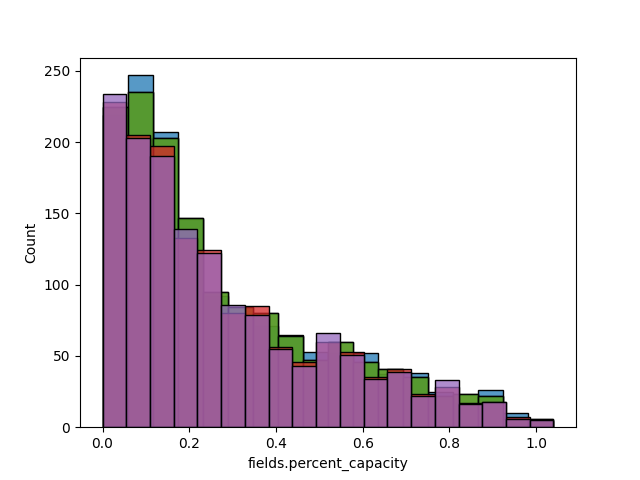
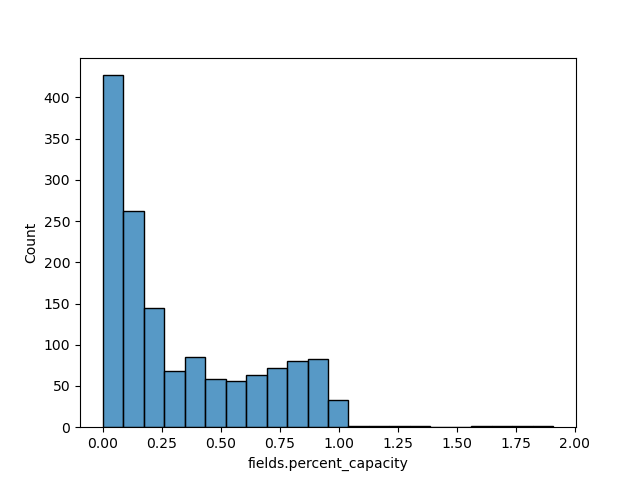
API payload parsed and saved to postgres tables.

diff --git a/app/modules/postgres_operations.py b/app/modules/postgres_operations.py
@@ -3,6 +3,8 @@ import pandas as pd
 from dotenv import load_dotenv
 import psycopg2
 from psycopg2.extras import Json, DictCursor
+
+from app.modules.api_operations import call_api
 from app.modules.test_data import test_data
 
 load_dotenv()
@@ -20,11 +22,8 @@ def connection_postgres():
 
 
 class VelibAPIResponse:
-    def __init__(self, json: dict):
-        self.nhits = json['nhits']
-        self.parameters = json['parameters']
-        self.records = json['records']
-        self.facet_groups = json['facet_groups']
+    def __init__(self, records: pd.DataFrame):
+        self.response_df = records
 
     def records_to_postgres(self):
 
@@ -32,11 +31,27 @@ class VelibAPIResponse:
         conn.autocommit = True
         cursor = conn.cursor(cursor_factory=DictCursor)
 
-        for record in self.records:
-            if record is not None:
-                cursor.execute('INSERT INTO test_table ("testCol") VALUES (%s)',
-                               [Json(record)]
-                               )
+        response_cols = ['fields.stationcode',
+                         'fields.ebike',
+                         'fields.mechanical',
+                         'fields.numbikesavailable',
+                         'fields.numdocksavailable',
+                         'fields.is_renting',
+                         'fields.is_installed',
+                         'fields.is_returning',
+                         'recordid',
+                         'fields.duedate',
+                         'record_timestamp',
+                         ]
+
+        postgres_cols = [col.split('.')[-1] for col in response_cols]
+
+        for row in self.response_df[response_cols].values:
+
+            cursor.execute(
+                f'INSERT INTO bicycle_count ({", ".join(postgres_cols)}) VALUES ({(" %s," * len(postgres_cols))[:-1]})',
+                tuple(row)
+            )
 
         conn.commit()
         conn.close()
@@ -48,6 +63,76 @@ class VelibAPIResponse:
         conn.close()
 
 
-response = VelibAPIResponse(test_data)
+def generate_station_detail_postgres(response_df: pd.DataFrame):
 
-response.records_to_postgres()
+    conn = connection_postgres()
+    conn.autocommit = True
+    cursor = conn.cursor(cursor_factory=DictCursor)
+
+    response_cols = ['fields.stationcode',
+                  'fields.name',
+                  'geo_long',
+                  'geo_lat',
+                  'fields.capacity',
+                  'fields.nom_arrondissement_communes']
+
+    postgres_cols = [col.split('.')[-1] for col in response_cols]
+
+    for row in response_df.records_df[response_cols].values:
+        cursor.execute(f'INSERT INTO station_detail ({", ".join(postgres_cols)}) VALUES ({(" %s,"*len(postgres_cols))[:-1]})',
+                       tuple(row)
+                       )
+
+    conn.commit()
+    conn.close()
+
+
+def get_latest_bicycle_count() -> pd.DataFrame:
+    conn = connection_postgres()
+    conn.autocommit = True
+    cursor = conn.cursor(cursor_factory=DictCursor)
+
+    #Get all records with the most recent timestamp
+    cursor.execute('''
+        SELECT * FROM public.bicycle_count
+        WHERE record_timestamp=(
+            SELECT MAX (record_timestamp)
+            FROM public.bicycle_count);
+    ''')
+    latest_df = cursor.fetchall()
+    conn.commit()
+
+    #Get Column Names
+    cursor.execute("""
+        SELECT * FROM INFORMATION_SCHEMA.COLUMNS
+        WHERE TABLE_NAME = 'bicycle_count'
+        """)
+    table_cols = cursor.fetchall()
+    table_cols = (pd.DataFrame(table_cols)
+                  .iloc[:,3]
+                  .to_list()
+                  )
+
+    ###CREATE DICTIONARY TO CONVERT FROM POSTGRES COLS TO API COLS.
+
+    conn.commit()
+
+    conn.close()
+
+    return pd.DataFrame(latest_df, columns=table_cols)
+
+if __name__ == "main":
+    BASE_URL = 'https://opendata.paris.fr/api/records/1.0/search/?'
+
+    search_dict = {
+        'dataset': 'velib-disponibilite-en-temps-reel',
+        'q': '',
+        'rows': -1,
+        'facet': []
+    }
+
+    current_payload = VelibAPIResponse(call_api(BASE_URL, search_dict))
+
+    current_payload.records_to_postgres()
+
+    #generate_station_detail_postgres(current_payload)

diff --git a/app/modules/api_operations.py b/app/modules/api_operations.py
@@ -3,10 +3,32 @@ import requests
 import json
 import pandas as pd
 from app.modules.querying import generate_q_url
+import datetime as dt
+from pytz import timezone
+
+
+def convert_my_iso_8601(iso_8601, tz_info):
+    assert iso_8601[-1] == 'Z'
+    iso_8601 = iso_8601[:-1] + '000'
+    iso_8601_dt = dt.datetime.strptime(iso_8601, '%Y-%m-%dT%H:%M:%S.%f')
+    return iso_8601_dt.replace(tzinfo=timezone('UTC')).astimezone(tz_info)
+
+def french_string_to_boolean(french_string: str) -> bool:
+
+    french_string = french_string.upper()
+
+    if french_string == 'OUI':
+        boolean = True
+    elif french_string == 'NON':
+        boolean = False
+    else:
+        pass
+
+    return boolean
 
 dtypes = {'datasetid': 'string',
           'recordid': 'string',
-          'record_timestamp': 'object',
+          #'record_timestamp': 'object',
           'fields.name': 'string',
           'fields.stationcode': 'string',
           'fields.ebike': 'int64',
@@ -22,12 +44,28 @@ dtypes = {'datasetid': 'string',
           'fields.is_returning': 'bool',
           'geometry.type': 'string',
           'geometry.coordinates': 'object',
+          'geo_long': 'float',
+          'geo_lat': 'float',
           }
+
 
 def call_api(base_url: str, search_dict: dict) -> pd.DataFrame:
     r = requests.get(generate_q_url(base_url, search_dict))
     payload = json.loads(r.text)
     payload = payload['records']
     payload = pd.json_normalize(payload)
-    #payload.astype(dtype=dtypes)
+
+    bool_cols = ['fields.is_renting', 'fields.is_installed', 'fields.is_returning']
+
+    for bool_col in bool_cols:
+        payload[bool_col] = payload[bool_col].apply(lambda x: french_string_to_boolean(str(x)))
+
+    payload[['geo_long', 'geo_lat']] = pd.DataFrame(payload['fields.coordonnees_geo'].tolist(),
+                                                    index=payload.index)
+
+    payload['fields.duedate'] = payload['fields.duedate'].apply(lambda x: dt.datetime.fromisoformat(x))
+    payload['record_timestamp'] = payload['record_timestamp'].apply(lambda x: dt.datetime.fromisoformat(
+                                                                            x.replace('Z', '+00:00')))
+
+    payload.astype(dtype=dtypes)
     return payload

diff --git a/main.py b/main.py
@@ -9,6 +9,7 @@ from datetime import datetime
 import pandas as pd
 
 from app.modules.api_operations import call_api
+from app.modules.postgres_operations import get_latest_bicycle_count
 from app.modules.static_analysis import plot_occupancy, plot_bikes_avail
 
 from fastapi import FastAPI, APIRouter, Query, Request
@@ -48,13 +49,12 @@ search_dict = {
     'rows': -1,
     'facet': ['name', 'capacity', 'is_installed', 'is_renting', 'is_returning', 'nom_arrondissement_communes']
 }
-
 app = FastAPI(
     title="Velib' Dashboard and Bayesian Analyses", openapi_url="/openapi.json"
 )
 
 # MacOS
-'''
+
 app.mount(
     "/app/static",
     StaticFiles(directory=str(str(Path(__file__).parent.absolute()))+"/app/static", html=True),
@@ -70,7 +70,7 @@ app.mount(
     name="static",
 )
 templates = Jinja2Templates(directory=str(Path(__file__).parent.absolute())+"\\app\\templates")
-
+'''
 
 api_router = APIRouter()
 
@@ -103,7 +103,8 @@ async def root(request: Request):
 @api_router.get("/api_response_statistics", status_code=200)
 async def root(request: Request):
 
-    current_payload = call_api(BASE_URL, search_dict)
+    #current_payload = call_api(BASE_URL, search_dict)
+    current_payload = get_latest_bicycle_count()
 
     current_payload['fields.percent_capacity'] = (
         current_payload['fields.numbikesavailable']/current_payload['fields.capacity']
@@ -185,7 +186,7 @@ app.mount("/dash", WSGIMiddleware(dash_app.server))
 
 if __name__ == '__main__':
     import uvicorn
-    uvicorn.run(app, host="localhost", port=8001, log_level="debug")
+    uvicorn.run(app, host="localhost", port=8002, log_level="debug")
     '''
     r = requests.get(generate_q_url(BASE_URL, search_dict))
     payload = json.loads(r.text)
